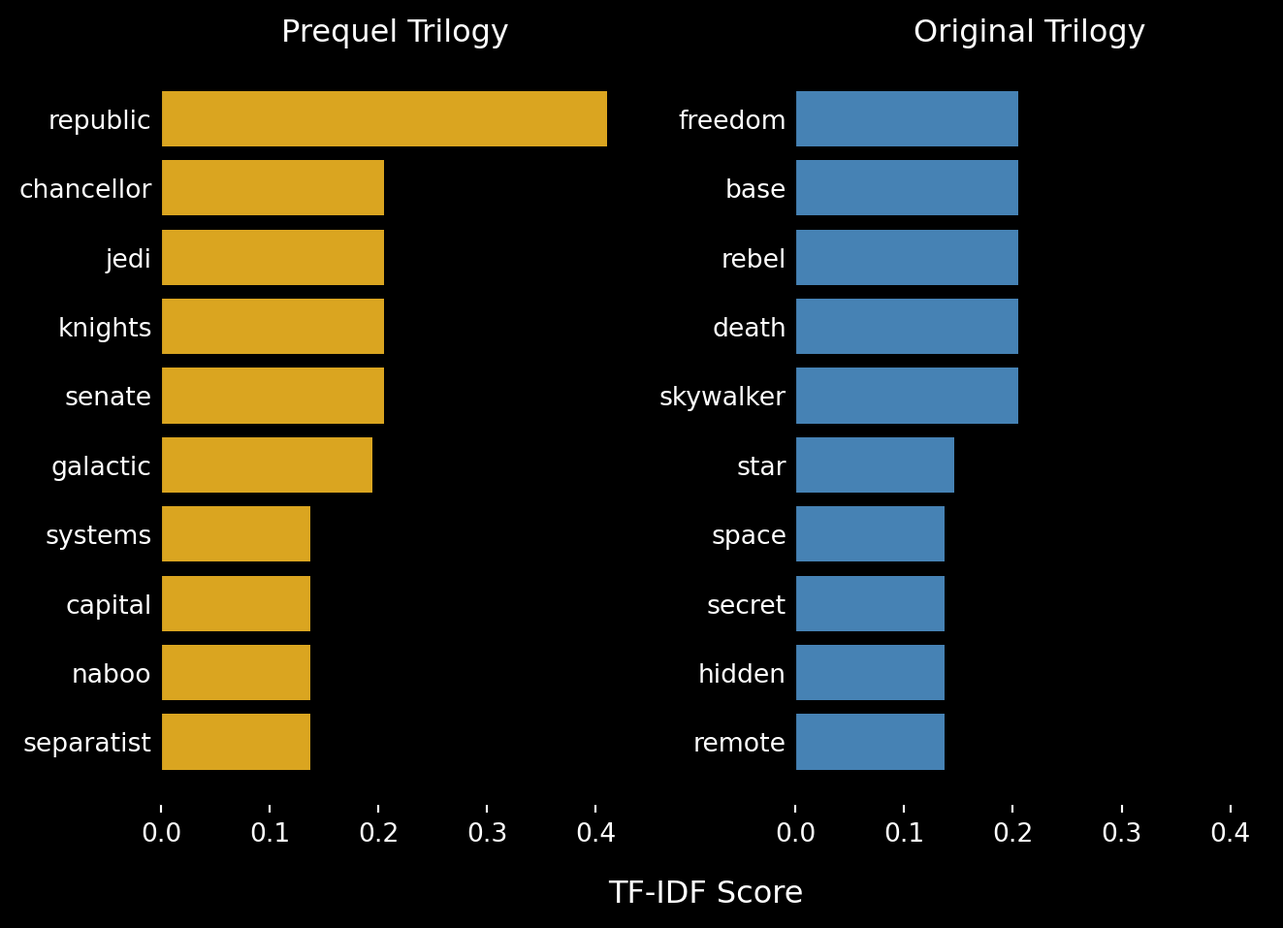
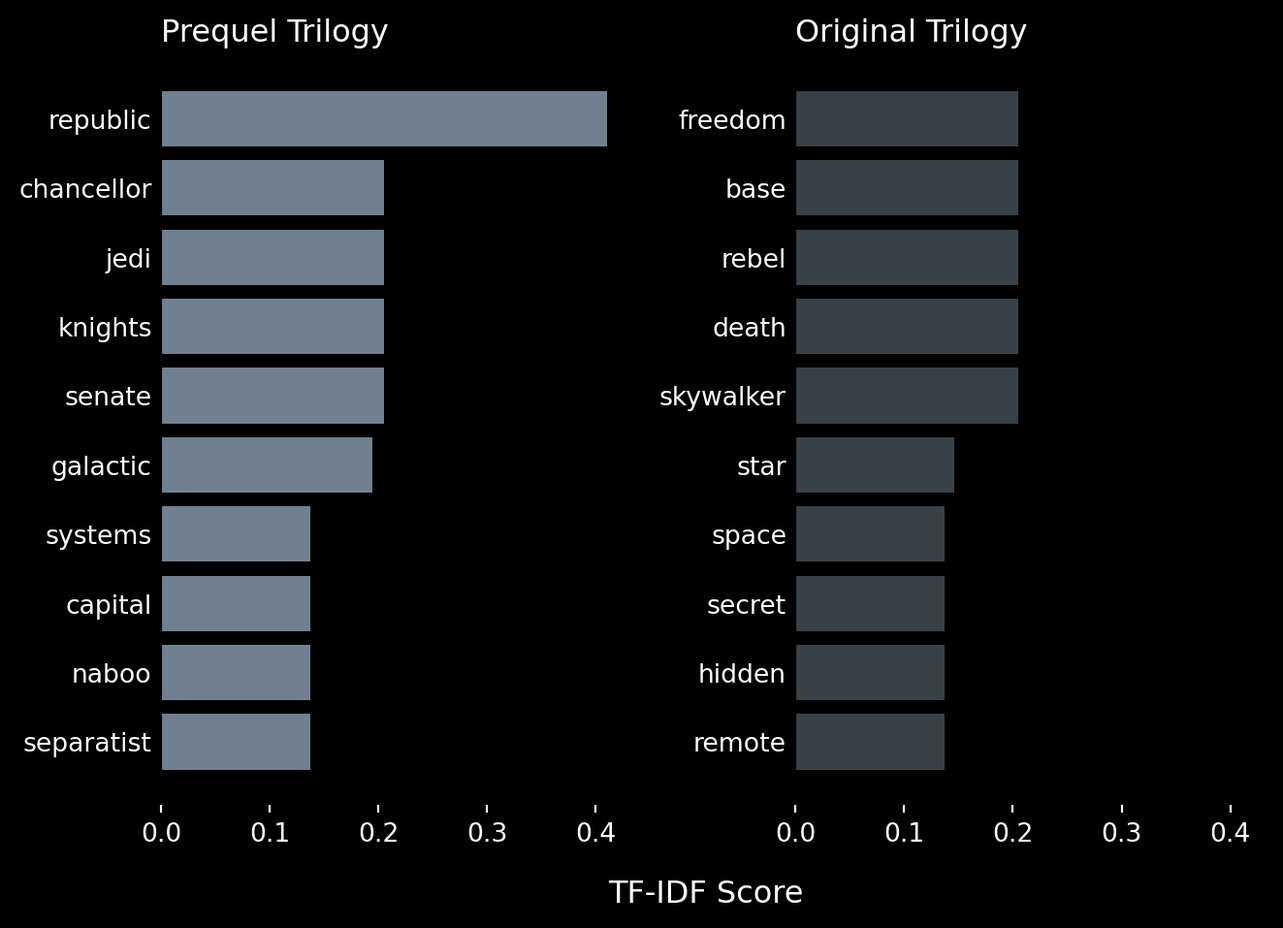
playing around with the colors for plots

diff --git a/docs/index.html b/docs/index.html
@@ -111,10 +111,11 @@ ul.task-list li input[type="checkbox"] {
 </header>
 
 <p>The main Star Wars saga consists of three trilogies: <em>the prequel trilogy</em>, <em>the original trilogy</em>, and <em>the sequel trilogy</em>. Together, these are referred to as <em>“the Skywalker Saga”</em>. In the cinematic universe, the order of the trilogies is as above, but they were released in a different order. The original trilogy was released 1977-1983, the prequel trilogy in 1999-2005, and the sequel trilogy in 2015-2019.</p>
-<p>In this analysis, we look at some of the differences between the prequel trilogy and the original trilogy.</p>
+<p>The following analysis builds on the data from <a href="https://swapi.dev/">the SW API</a> which covers the prequel trilogy and the original trilogy.</p>
 <section id="character-arcs-of-returning-characters" class="level2">
 <h2 data-anchor-id="character-arcs-of-returning-characters">Character arcs of returning characters</h2>
-<div class="cell" data-execution_count="5">
+<p>The appearance of recurring characters in the different films.</p>
+<div class="cell" data-execution_count="4">
 <div class="cell-output cell-output-display">
 <div id="storyarcs" class="quarto-figure quarto-figure-center">
 <figure class="figure">
@@ -129,7 +130,7 @@ ul.task-list li input[type="checkbox"] {
 <h2 data-anchor-id="species-representation">Species representation</h2>
 <p>The Star Wars universe has a range of different species that are represented. The majority of these species can be classified as <em>mammal</em>. This is represented in the character gallery of the movies, where the majority of named characters in each movie is a mammal. This is particularly true in the original trilogy, where the only non-mammal named characters are the druids R2-D2 and C-3PO, and Jabba Desilijic Tiure, who is more commonly known as Jabba de Hutt, who belongs to the Hutt species (classification: gastropod).</p>
 <p>Moreover, the following plot clearly shows a more numerous character gallery in the prequel trilogy, which was published later, compared with the original trilogy. The plot is interactive, so you can hover over the different data points to see a full list of named characters from that species class in that movie.</p>
-<div id="species-representation-count" class="cell" data-execution_count="8">
+<div id="species-representation-count" class="cell" data-execution_count="7">
 <div id="species-representation-count-1" class="cell-output cell-output-display">
         <script type="text/javascript">
         window.PlotlyConfig = {MathJaxConfig: 'local'};
@@ -142,9 +143,9 @@ ul.task-list li input[type="checkbox"] {
 <div id="species-representation-count-2" class="cell-output cell-output-display">
 
 <div>            <script src="https://cdnjs.cloudflare.com/ajax/libs/mathjax/2.7.5/MathJax.js?config=TeX-AMS-MML_SVG"></script><script type="text/javascript">if (window.MathJax && window.MathJax.Hub && window.MathJax.Hub.Config) {window.MathJax.Hub.Config({SVG: {font: "STIX-Web"}});}</script>                <script type="text/javascript">window.PlotlyConfig = {MathJaxConfig: 'local'};</script>
-        <script charset="utf-8" src="https://cdn.plot.ly/plotly-3.0.1.min.js"></script>                <div id="4acf7f63-1f56-48de-9eff-6d5e76ddca23" class="plotly-graph-div" style="height:525px; width:100%;"></div>            <script type="text/javascript">                window.PLOTLYENV=window.PLOTLYENV || {};                                if (document.getElementById("4acf7f63-1f56-48de-9eff-6d5e76ddca23")) {                    Plotly.newPlot(                        "4acf7f63-1f56-48de-9eff-6d5e76ddca23",                        [{"customdata":[["Jar Jar Binks\u003cbr\u003eKit Fisto\u003cbr\u003eMas Amedda"],["Jar Jar Binks\u003cbr\u003eKit Fisto\u003cbr\u003eMas Amedda"],["Kit Fisto"],[""],[""],[""]],"fillpattern":{"shape":""},"hovertemplate":"\u003cb\u003eClassification: %{fullData.name}\u003c\u002fb\u003e\u003cbr\u003e# Characters: %{y}\u003cbr\u003e%{customdata[0]}\u003cextra\u003e\u003c\u002fextra\u003e","legendgroup":"amphibian","line":{"color":"rgb(237, 229, 207)"},"marker":{"symbol":"circle"},"mode":"lines","name":"amphibian","orientation":"v","showlegend":true,"stackgroup":"1","x":["I","II","III","IV","V","VI"],"xaxis":"x","y":{"dtype":"f8","bdata":"AAAAAAAACEAAAAAAAAAIQAAAAAAAAPA\u002fAAAAAAAAAAAAAAAAAAAAAAAAAAAAAAAA"},"yaxis":"y","type":"scatter"},{"customdata":[["C-3PO\u003cbr\u003eR2-D2"],["C-3PO\u003cbr\u003eR2-D2\u003cbr\u003eR4-P17"],["C-3PO\u003cbr\u003eR2-D2\u003cbr\u003eR4-P17"],["C-3PO\u003cbr\u003eR2-D2"],["C-3PO\u003cbr\u003eR2-D2"],["C-3PO\u003cbr\u003eR2-D2"]],"fillpattern":{"shape":""},"hovertemplate":"\u003cb\u003eClassification: %{fullData.name}\u003c\u002fb\u003e\u003cbr\u003e# Characters: %{y}\u003cbr\u003e%{customdata[0]}\u003cextra\u003e\u003c\u002fextra\u003e","legendgroup":"artificial","line":{"color":"rgb(224, 194, 162)"},"marker":{"symbol":"circle"},"mode":"lines","name":"artificial","orientation":"v","showlegend":true,"stackgroup":"1","x":["I","II","III","IV","V","VI"],"xaxis":"x","y":{"dtype":"f8","bdata":"AAAAAAAAAEAAAAAAAAAIQAAAAAAAAAhAAAAAAAAAAEAAAAAAAAAAQAAAAAAAAABA"},"yaxis":"y","type":"scatter"},{"customdata":[["Jabba Desilijic Tiure"],[""],[""],["Jabba Desilijic Tiure"],[""],["Jabba Desilijic Tiure"]],"fillpattern":{"shape":""},"hovertemplate":"\u003cb\u003eClassification: %{fullData.name}\u003c\u002fb\u003e\u003cbr\u003e# Characters: %{y}\u003cbr\u003e%{customdata[0]}\u003cextra\u003e\u003c\u002fextra\u003e","legendgroup":"gastropod","line":{"color":"rgb(211, 156, 131)"},"marker":{"symbol":"circle"},"mode":"lines","name":"gastropod","orientation":"v","showlegend":true,"stackgroup":"1","x":["I","II","III","IV","V","VI"],"xaxis":"x","y":{"dtype":"f8","bdata":"AAAAAAAA8D8AAAAAAAAAAAAAAAAAAAAAAAAAAAAA8D8AAAAAAAAAAAAAAAAAAPA\u002f"},"yaxis":"y","type":"scatter"},{"customdata":[["Adi Gallia\u003cbr\u003eAnakin Skywalker\u003cbr\u003eAyla Secura\u003cbr\u003eEeth Koth\u003cbr\u003eKi-Adi-Mundi\u003cbr\u003eMace Windu\u003cbr\u003eObi-Wan Kenobi\u003cbr\u003ePadm\u00e9 Amidala\u003cbr\u003ePalpatine\u003cbr\u003eShmi Skywalker\u003cbr\u003eWatto\u003cbr\u003eYoda"],["Anakin Skywalker\u003cbr\u003eAyla Secura\u003cbr\u003eBail Prestor Organa\u003cbr\u003eBeru Whitesun lars\u003cbr\u003eBoba Fett\u003cbr\u003eDooku\u003cbr\u003eKi-Adi-Mundi\u003cbr\u003eLuminara Unduli\u003cbr\u003eMace Windu\u003cbr\u003eObi-Wan Kenobi\u003cbr\u003eOwen Lars\u003cbr\u003ePadm\u00e9 Amidala\u003cbr\u003ePalpatine\u003cbr\u003eShaak Ti\u003cbr\u003eShmi Skywalker\u003cbr\u003eWatto\u003cbr\u003eYoda"],["Adi Gallia\u003cbr\u003eAnakin Skywalker\u003cbr\u003eAyla Secura\u003cbr\u003eBail Prestor Organa\u003cbr\u003eBeru Whitesun lars\u003cbr\u003eChewbacca\u003cbr\u003eDarth Vader\u003cbr\u003eDooku\u003cbr\u003eEeth Koth\u003cbr\u003eKi-Adi-Mundi\u003cbr\u003eLeia Organa\u003cbr\u003eLuke Skywalker\u003cbr\u003eLuminara Unduli\u003cbr\u003eMace Windu\u003cbr\u003eObi-Wan Kenobi\u003cbr\u003eOwen Lars\u003cbr\u003ePadm\u00e9 Amidala\u003cbr\u003ePalpatine\u003cbr\u003eRaymus Antilles\u003cbr\u003eShaak Ti\u003cbr\u003eWilhuff Tarkin\u003cbr\u003eYoda"],["Beru Whitesun lars\u003cbr\u003eChewbacca\u003cbr\u003eDarth Vader\u003cbr\u003eHan Solo\u003cbr\u003eLeia Organa\u003cbr\u003eLuke Skywalker\u003cbr\u003eObi-Wan Kenobi\u003cbr\u003eOwen Lars\u003cbr\u003eRaymus Antilles\u003cbr\u003eWedge Antilles\u003cbr\u003eWilhuff Tarkin"],["Boba Fett\u003cbr\u003eChewbacca\u003cbr\u003eDarth Vader\u003cbr\u003eHan Solo\u003cbr\u003eLando Calrissian\u003cbr\u003eLeia Organa\u003cbr\u003eLuke Skywalker\u003cbr\u003eObi-Wan Kenobi\u003cbr\u003ePalpatine\u003cbr\u003eWedge Antilles\u003cbr\u003eYoda"],["Boba Fett\u003cbr\u003eChewbacca\u003cbr\u003eDarth Vader\u003cbr\u003eHan Solo\u003cbr\u003eLando Calrissian\u003cbr\u003eLeia Organa\u003cbr\u003eLuke Skywalker\u003cbr\u003eObi-Wan Kenobi\u003cbr\u003ePalpatine\u003cbr\u003eWedge Antilles\u003cbr\u003eYoda"]],"fillpattern":{"shape":""},"hovertemplate":"\u003cb\u003eClassification: %{fullData.name}\u003c\u002fb\u003e\u003cbr\u003e# Characters: %{y}\u003cbr\u003e%{customdata[0]}\u003cextra\u003e\u003c\u002fextra\u003e","legendgroup":"mammal","line":{"color":"rgb(193, 118, 111)"},"marker":{"symbol":"circle"},"mode":"lines","name":"mammal","orientation":"v","showlegend":true,"stackgroup":"1","x":["I","II","III","IV","V","VI"],"xaxis":"x","y":{"dtype":"f8","bdata":"AAAAAAAAKEAAAAAAAAAxQAAAAAAAADZAAAAAAAAAJkAAAAAAAAAmQAAAAAAAACZA"},"yaxis":"y","type":"scatter"},{"customdata":[["Nute Gunray\u003cbr\u003ePlo Koon\u003cbr\u003eSaesee Tiin"],["Nute Gunray\u003cbr\u003ePlo Koon"],["Nute Gunray\u003cbr\u003ePlo Koon\u003cbr\u003eSaesee Tiin"],[""],[""],[""]],"fillpattern":{"shape":""},"hovertemplate":"\u003cb\u003eClassification: %{fullData.name}\u003c\u002fb\u003e\u003cbr\u003e# Characters: %{y}\u003cbr\u003e%{customdata[0]}\u003cextra\u003e\u003c\u002fextra\u003e","legendgroup":"unknown","line":{"color":"rgb(166, 84, 97)"},"marker":{"symbol":"circle"},"mode":"lines","name":"unknown","orientation":"v","showlegend":true,"stackgroup":"1","x":["I","II","III","IV","V","VI"],"xaxis":"x","y":{"dtype":"f8","bdata":"AAAAAAAACEAAAAAAAAAAQAAAAAAAAAhAAAAAAAAAAAAAAAAAAAAAAAAAAAAAAAAA"},"yaxis":"y","type":"scatter"},{"customdata":[[""],["Poggle the Lesser"],["Poggle the Lesser"],[""],[""],[""]],"fillpattern":{"shape":""},"hovertemplate":"\u003cb\u003eClassification: %{fullData.name}\u003c\u002fb\u003e\u003cbr\u003e# Characters: %{y}\u003cbr\u003e%{customdata[0]}\u003cextra\u003e\u003c\u002fextra\u003e","legendgroup":"insectoid","line":{"color":"rgb(129, 55, 83)"},"marker":{"symbol":"circle"},"mode":"lines","name":"insectoid","orientation":"v","showlegend":true,"stackgroup":"1","x":["I","II","III","IV","V","VI"],"xaxis":"x","y":{"dtype":"f8","bdata":"AAAAAAAAAAAAAAAAAADwPwAAAAAAAPA\u002fAAAAAAAAAAAAAAAAAAAAAAAAAAAAAAAA"},"yaxis":"y","type":"scatter"}],                        {"template":{"data":{"histogram2dcontour":[{"type":"histogram2dcontour","colorbar":{"outlinewidth":0,"ticks":""},"colorscale":[[0.0,"#0d0887"],[0.1111111111111111,"#46039f"],[0.2222222222222222,"#7201a8"],[0.3333333333333333,"#9c179e"],[0.4444444444444444,"#bd3786"],[0.5555555555555556,"#d8576b"],[0.6666666666666666,"#ed7953"],[0.7777777777777778,"#fb9f3a"],[0.8888888888888888,"#fdca26"],[1.0,"#f0f921"]]}],"choropleth":[{"type":"choropleth","colorbar":{"outlinewidth":0,"ticks":""}}],"histogram2d":[{"type":"histogram2d","colorbar":{"outlinewidth":0,"ticks":""},"colorscale":[[0.0,"#0d0887"],[0.1111111111111111,"#46039f"],[0.2222222222222222,"#7201a8"],[0.3333333333333333,"#9c179e"],[0.4444444444444444,"#bd3786"],[0.5555555555555556,"#d8576b"],[0.6666666666666666,"#ed7953"],[0.7777777777777778,"#fb9f3a"],[0.8888888888888888,"#fdca26"],[1.0,"#f0f921"]]}],"heatmap":[{"type":"heatmap","colorbar":{"outlinewidth":0,"ticks":""},"colorscale":[[0.0,"#0d0887"],[0.1111111111111111,"#46039f"],[0.2222222222222222,"#7201a8"],[0.3333333333333333,"#9c179e"],[0.4444444444444444,"#bd3786"],[0.5555555555555556,"#d8576b"],[0.6666666666666666,"#ed7953"],[0.7777777777777778,"#fb9f3a"],[0.8888888888888888,"#fdca26"],[1.0,"#f0f921"]]}],"contourcarpet":[{"type":"contourcarpet","colorbar":{"outlinewidth":0,"ticks":""}}],"contour":[{"type":"contour","colorbar":{"outlinewidth":0,"ticks":""},"colorscale":[[0.0,"#0d0887"],[0.1111111111111111,"#46039f"],[0.2222222222222222,"#7201a8"],[0.3333333333333333,"#9c179e"],[0.4444444444444444,"#bd3786"],[0.5555555555555556,"#d8576b"],[0.6666666666666666,"#ed7953"],[0.7777777777777778,"#fb9f3a"],[0.8888888888888888,"#fdca26"],[1.0,"#f0f921"]]}],"surface":[{"type":"surface","colorbar":{"outlinewidth":0,"ticks":""},"colorscale":[[0.0,"#0d0887"],[0.1111111111111111,"#46039f"],[0.2222222222222222,"#7201a8"],[0.3333333333333333,"#9c179e"],[0.4444444444444444,"#bd3786"],[0.5555555555555556,"#d8576b"],[0.6666666666666666,"#ed7953"],[0.7777777777777778,"#fb9f3a"],[0.8888888888888888,"#fdca26"],[1.0,"#f0f921"]]}],"mesh3d":[{"type":"mesh3d","colorbar":{"outlinewidth":0,"ticks":""}}],"scatter":[{"fillpattern":{"fillmode":"overlay","size":10,"solidity":0.2},"type":"scatter"}],"parcoords":[{"type":"parcoords","line":{"colorbar":{"outlinewidth":0,"ticks":""}}}],"scatterpolargl":[{"type":"scatterpolargl","marker":{"colorbar":{"outlinewidth":0,"ticks":""}}}],"bar":[{"error_x":{"color":"#2a3f5f"},"error_y":{"color":"#2a3f5f"},"marker":{"line":{"color":"#E5ECF6","width":0.5},"pattern":{"fillmode":"overlay","size":10,"solidity":0.2}},"type":"bar"}],"scattergeo":[{"type":"scattergeo","marker":{"colorbar":{"outlinewidth":0,"ticks":""}}}],"scatterpolar":[{"type":"scatterpolar","marker":{"colorbar":{"outlinewidth":0,"ticks":""}}}],"histogram":[{"marker":{"pattern":{"fillmode":"overlay","size":10,"solidity":0.2}},"type":"histogram"}],"scattergl":[{"type":"scattergl","marker":{"colorbar":{"outlinewidth":0,"ticks":""}}}],"scatter3d":[{"type":"scatter3d","line":{"colorbar":{"outlinewidth":0,"ticks":""}},"marker":{"colorbar":{"outlinewidth":0,"ticks":""}}}],"scattermap":[{"type":"scattermap","marker":{"colorbar":{"outlinewidth":0,"ticks":""}}}],"scattermapbox":[{"type":"scattermapbox","marker":{"colorbar":{"outlinewidth":0,"ticks":""}}}],"scatterternary":[{"type":"scatterternary","marker":{"colorbar":{"outlinewidth":0,"ticks":""}}}],"scattercarpet":[{"type":"scattercarpet","marker":{"colorbar":{"outlinewidth":0,"ticks":""}}}],"carpet":[{"aaxis":{"endlinecolor":"#2a3f5f","gridcolor":"white","linecolor":"white","minorgridcolor":"white","startlinecolor":"#2a3f5f"},"baxis":{"endlinecolor":"#2a3f5f","gridcolor":"white","linecolor":"white","minorgridcolor":"white","startlinecolor":"#2a3f5f"},"type":"carpet"}],"table":[{"cells":{"fill":{"color":"#EBF0F8"},"line":{"color":"white"}},"header":{"fill":{"color":"#C8D4E3"},"line":{"color":"white"}},"type":"table"}],"barpolar":[{"marker":{"line":{"color":"#E5ECF6","width":0.5},"pattern":{"fillmode":"overlay","size":10,"solidity":0.2}},"type":"barpolar"}],"pie":[{"automargin":true,"type":"pie"}]},"layout":{"autotypenumbers":"strict","colorway":["#636efa","#EF553B","#00cc96","#ab63fa","#FFA15A","#19d3f3","#FF6692","#B6E880","#FF97FF","#FECB52"],"font":{"color":"#2a3f5f"},"hovermode":"closest","hoverlabel":{"align":"left"},"paper_bgcolor":"white","plot_bgcolor":"#E5ECF6","polar":{"bgcolor":"#E5ECF6","angularaxis":{"gridcolor":"white","linecolor":"white","ticks":""},"radialaxis":{"gridcolor":"white","linecolor":"white","ticks":""}},"ternary":{"bgcolor":"#E5ECF6","aaxis":{"gridcolor":"white","linecolor":"white","ticks":""},"baxis":{"gridcolor":"white","linecolor":"white","ticks":""},"caxis":{"gridcolor":"white","linecolor":"white","ticks":""}},"coloraxis":{"colorbar":{"outlinewidth":0,"ticks":""}},"colorscale":{"sequential":[[0.0,"#0d0887"],[0.1111111111111111,"#46039f"],[0.2222222222222222,"#7201a8"],[0.3333333333333333,"#9c179e"],[0.4444444444444444,"#bd3786"],[0.5555555555555556,"#d8576b"],[0.6666666666666666,"#ed7953"],[0.7777777777777778,"#fb9f3a"],[0.8888888888888888,"#fdca26"],[1.0,"#f0f921"]],"sequentialminus":[[0.0,"#0d0887"],[0.1111111111111111,"#46039f"],[0.2222222222222222,"#7201a8"],[0.3333333333333333,"#9c179e"],[0.4444444444444444,"#bd3786"],[0.5555555555555556,"#d8576b"],[0.6666666666666666,"#ed7953"],[0.7777777777777778,"#fb9f3a"],[0.8888888888888888,"#fdca26"],[1.0,"#f0f921"]],"diverging":[[0,"#8e0152"],[0.1,"#c51b7d"],[0.2,"#de77ae"],[0.3,"#f1b6da"],[0.4,"#fde0ef"],[0.5,"#f7f7f7"],[0.6,"#e6f5d0"],[0.7,"#b8e186"],[0.8,"#7fbc41"],[0.9,"#4d9221"],[1,"#276419"]]},"xaxis":{"gridcolor":"white","linecolor":"white","ticks":"","title":{"standoff":15},"zerolinecolor":"white","automargin":true,"zerolinewidth":2},"yaxis":{"gridcolor":"white","linecolor":"white","ticks":"","title":{"standoff":15},"zerolinecolor":"white","automargin":true,"zerolinewidth":2},"scene":{"xaxis":{"backgroundcolor":"#E5ECF6","gridcolor":"white","linecolor":"white","showbackground":true,"ticks":"","zerolinecolor":"white","gridwidth":2},"yaxis":{"backgroundcolor":"#E5ECF6","gridcolor":"white","linecolor":"white","showbackground":true,"ticks":"","zerolinecolor":"white","gridwidth":2},"zaxis":{"backgroundcolor":"#E5ECF6","gridcolor":"white","linecolor":"white","showbackground":true,"ticks":"","zerolinecolor":"white","gridwidth":2}},"shapedefaults":{"line":{"color":"#2a3f5f"}},"annotationdefaults":{"arrowcolor":"#2a3f5f","arrowhead":0,"arrowwidth":1},"geo":{"bgcolor":"white","landcolor":"#E5ECF6","subunitcolor":"white","showland":true,"showlakes":true,"lakecolor":"white"},"title":{"x":0.05},"mapbox":{"style":"light"}}},"xaxis":{"anchor":"y","domain":[0.0,1.0],"title":{"text":"EPISODE"},"showgrid":false,"zeroline":false},"yaxis":{"anchor":"x","domain":[0.0,1.0],"title":{"text":"# Unique Characters"},"showgrid":false,"zeroline":false},"legend":{"title":{"text":"Classification"},"tracegroupgap":0},"margin":{"t":60},"shapes":[{"fillcolor":"white","line":{"width":0},"opacity":0.2,"type":"rect","x0":0,"x1":2.5,"xref":"x","y0":0,"y1":1,"yref":"y domain"}],"annotations":[{"font":{"color":"white","size":16},"showarrow":false,"text":"Prequel Trilogy","x":0.6,"y":30},{"font":{"color":"white","size":16},"showarrow":false,"text":"Original Trilogy","x":4.4,"y":30}],"font":{"color":"white"},"paper_bgcolor":"black","plot_bgcolor":"black"},                        {"responsive": true}                    ).then(function(){
+        <script charset="utf-8" src="https://cdn.plot.ly/plotly-3.0.1.min.js"></script>                <div id="2be65f09-440c-45a9-a1fb-83e76737846d" class="plotly-graph-div" style="height:525px; width:100%;"></div>            <script type="text/javascript">                window.PLOTLYENV=window.PLOTLYENV || {};                                if (document.getElementById("2be65f09-440c-45a9-a1fb-83e76737846d")) {                    Plotly.newPlot(                        "2be65f09-440c-45a9-a1fb-83e76737846d",                        [{"customdata":[["Jar Jar Binks\u003cbr\u003eKit Fisto\u003cbr\u003eMas Amedda"],["Jar Jar Binks\u003cbr\u003eKit Fisto\u003cbr\u003eMas Amedda"],["Kit Fisto"],[""],[""],[""]],"fillpattern":{"shape":""},"hovertemplate":"\u003cb\u003eClassification: %{fullData.name}\u003c\u002fb\u003e\u003cbr\u003e# Characters: %{y}\u003cbr\u003e%{customdata[0]}\u003cextra\u003e\u003c\u002fextra\u003e","legendgroup":"amphibian","line":{"color":"rgb(237, 229, 207)"},"marker":{"symbol":"circle"},"mode":"lines","name":"amphibian","orientation":"v","showlegend":true,"stackgroup":"1","x":["I","II","III","IV","V","VI"],"xaxis":"x","y":{"dtype":"f8","bdata":"AAAAAAAACEAAAAAAAAAIQAAAAAAAAPA\u002fAAAAAAAAAAAAAAAAAAAAAAAAAAAAAAAA"},"yaxis":"y","type":"scatter"},{"customdata":[["C-3PO\u003cbr\u003eR2-D2"],["C-3PO\u003cbr\u003eR2-D2\u003cbr\u003eR4-P17"],["C-3PO\u003cbr\u003eR2-D2\u003cbr\u003eR4-P17"],["C-3PO\u003cbr\u003eR2-D2"],["C-3PO\u003cbr\u003eR2-D2"],["C-3PO\u003cbr\u003eR2-D2"]],"fillpattern":{"shape":""},"hovertemplate":"\u003cb\u003eClassification: %{fullData.name}\u003c\u002fb\u003e\u003cbr\u003e# Characters: %{y}\u003cbr\u003e%{customdata[0]}\u003cextra\u003e\u003c\u002fextra\u003e","legendgroup":"artificial","line":{"color":"rgb(224, 194, 162)"},"marker":{"symbol":"circle"},"mode":"lines","name":"artificial","orientation":"v","showlegend":true,"stackgroup":"1","x":["I","II","III","IV","V","VI"],"xaxis":"x","y":{"dtype":"f8","bdata":"AAAAAAAAAEAAAAAAAAAIQAAAAAAAAAhAAAAAAAAAAEAAAAAAAAAAQAAAAAAAAABA"},"yaxis":"y","type":"scatter"},{"customdata":[["Jabba Desilijic Tiure"],[""],[""],["Jabba Desilijic Tiure"],[""],["Jabba Desilijic Tiure"]],"fillpattern":{"shape":""},"hovertemplate":"\u003cb\u003eClassification: %{fullData.name}\u003c\u002fb\u003e\u003cbr\u003e# Characters: %{y}\u003cbr\u003e%{customdata[0]}\u003cextra\u003e\u003c\u002fextra\u003e","legendgroup":"gastropod","line":{"color":"rgb(211, 156, 131)"},"marker":{"symbol":"circle"},"mode":"lines","name":"gastropod","orientation":"v","showlegend":true,"stackgroup":"1","x":["I","II","III","IV","V","VI"],"xaxis":"x","y":{"dtype":"f8","bdata":"AAAAAAAA8D8AAAAAAAAAAAAAAAAAAAAAAAAAAAAA8D8AAAAAAAAAAAAAAAAAAPA\u002f"},"yaxis":"y","type":"scatter"},{"customdata":[["Adi Gallia\u003cbr\u003eAnakin Skywalker\u003cbr\u003eAyla Secura\u003cbr\u003eEeth Koth\u003cbr\u003eKi-Adi-Mundi\u003cbr\u003eMace Windu\u003cbr\u003eObi-Wan Kenobi\u003cbr\u003ePadm\u00e9 Amidala\u003cbr\u003ePalpatine\u003cbr\u003eShmi Skywalker\u003cbr\u003eWatto\u003cbr\u003eYoda"],["Anakin Skywalker\u003cbr\u003eAyla Secura\u003cbr\u003eBail Prestor Organa\u003cbr\u003eBeru Whitesun lars\u003cbr\u003eBoba Fett\u003cbr\u003eDooku\u003cbr\u003eKi-Adi-Mundi\u003cbr\u003eLuminara Unduli\u003cbr\u003eMace Windu\u003cbr\u003eObi-Wan Kenobi\u003cbr\u003eOwen Lars\u003cbr\u003ePadm\u00e9 Amidala\u003cbr\u003ePalpatine\u003cbr\u003eShaak Ti\u003cbr\u003eShmi Skywalker\u003cbr\u003eWatto\u003cbr\u003eYoda"],["Adi Gallia\u003cbr\u003eAnakin Skywalker\u003cbr\u003eAyla Secura\u003cbr\u003eBail Prestor Organa\u003cbr\u003eBeru Whitesun lars\u003cbr\u003eChewbacca\u003cbr\u003eDarth Vader\u003cbr\u003eDooku\u003cbr\u003eEeth Koth\u003cbr\u003eKi-Adi-Mundi\u003cbr\u003eLeia Organa\u003cbr\u003eLuke Skywalker\u003cbr\u003eLuminara Unduli\u003cbr\u003eMace Windu\u003cbr\u003eObi-Wan Kenobi\u003cbr\u003eOwen Lars\u003cbr\u003ePadm\u00e9 Amidala\u003cbr\u003ePalpatine\u003cbr\u003eRaymus Antilles\u003cbr\u003eShaak Ti\u003cbr\u003eWilhuff Tarkin\u003cbr\u003eYoda"],["Beru Whitesun lars\u003cbr\u003eChewbacca\u003cbr\u003eDarth Vader\u003cbr\u003eHan Solo\u003cbr\u003eLeia Organa\u003cbr\u003eLuke Skywalker\u003cbr\u003eObi-Wan Kenobi\u003cbr\u003eOwen Lars\u003cbr\u003eRaymus Antilles\u003cbr\u003eWedge Antilles\u003cbr\u003eWilhuff Tarkin"],["Boba Fett\u003cbr\u003eChewbacca\u003cbr\u003eDarth Vader\u003cbr\u003eHan Solo\u003cbr\u003eLando Calrissian\u003cbr\u003eLeia Organa\u003cbr\u003eLuke Skywalker\u003cbr\u003eObi-Wan Kenobi\u003cbr\u003ePalpatine\u003cbr\u003eWedge Antilles\u003cbr\u003eYoda"],["Boba Fett\u003cbr\u003eChewbacca\u003cbr\u003eDarth Vader\u003cbr\u003eHan Solo\u003cbr\u003eLando Calrissian\u003cbr\u003eLeia Organa\u003cbr\u003eLuke Skywalker\u003cbr\u003eObi-Wan Kenobi\u003cbr\u003ePalpatine\u003cbr\u003eWedge Antilles\u003cbr\u003eYoda"]],"fillpattern":{"shape":""},"hovertemplate":"\u003cb\u003eClassification: %{fullData.name}\u003c\u002fb\u003e\u003cbr\u003e# Characters: %{y}\u003cbr\u003e%{customdata[0]}\u003cextra\u003e\u003c\u002fextra\u003e","legendgroup":"mammal","line":{"color":"rgb(193, 118, 111)"},"marker":{"symbol":"circle"},"mode":"lines","name":"mammal","orientation":"v","showlegend":true,"stackgroup":"1","x":["I","II","III","IV","V","VI"],"xaxis":"x","y":{"dtype":"f8","bdata":"AAAAAAAAKEAAAAAAAAAxQAAAAAAAADZAAAAAAAAAJkAAAAAAAAAmQAAAAAAAACZA"},"yaxis":"y","type":"scatter"},{"customdata":[["Nute Gunray\u003cbr\u003ePlo Koon\u003cbr\u003eSaesee Tiin"],["Nute Gunray\u003cbr\u003ePlo Koon"],["Nute Gunray\u003cbr\u003ePlo Koon\u003cbr\u003eSaesee Tiin"],[""],[""],[""]],"fillpattern":{"shape":""},"hovertemplate":"\u003cb\u003eClassification: %{fullData.name}\u003c\u002fb\u003e\u003cbr\u003e# Characters: %{y}\u003cbr\u003e%{customdata[0]}\u003cextra\u003e\u003c\u002fextra\u003e","legendgroup":"unknown","line":{"color":"rgb(166, 84, 97)"},"marker":{"symbol":"circle"},"mode":"lines","name":"unknown","orientation":"v","showlegend":true,"stackgroup":"1","x":["I","II","III","IV","V","VI"],"xaxis":"x","y":{"dtype":"f8","bdata":"AAAAAAAACEAAAAAAAAAAQAAAAAAAAAhAAAAAAAAAAAAAAAAAAAAAAAAAAAAAAAAA"},"yaxis":"y","type":"scatter"},{"customdata":[[""],["Poggle the Lesser"],["Poggle the Lesser"],[""],[""],[""]],"fillpattern":{"shape":""},"hovertemplate":"\u003cb\u003eClassification: %{fullData.name}\u003c\u002fb\u003e\u003cbr\u003e# Characters: %{y}\u003cbr\u003e%{customdata[0]}\u003cextra\u003e\u003c\u002fextra\u003e","legendgroup":"insectoid","line":{"color":"rgb(129, 55, 83)"},"marker":{"symbol":"circle"},"mode":"lines","name":"insectoid","orientation":"v","showlegend":true,"stackgroup":"1","x":["I","II","III","IV","V","VI"],"xaxis":"x","y":{"dtype":"f8","bdata":"AAAAAAAAAAAAAAAAAADwPwAAAAAAAPA\u002fAAAAAAAAAAAAAAAAAAAAAAAAAAAAAAAA"},"yaxis":"y","type":"scatter"}],                        {"template":{"data":{"histogram2dcontour":[{"type":"histogram2dcontour","colorbar":{"outlinewidth":0,"ticks":""},"colorscale":[[0.0,"#0d0887"],[0.1111111111111111,"#46039f"],[0.2222222222222222,"#7201a8"],[0.3333333333333333,"#9c179e"],[0.4444444444444444,"#bd3786"],[0.5555555555555556,"#d8576b"],[0.6666666666666666,"#ed7953"],[0.7777777777777778,"#fb9f3a"],[0.8888888888888888,"#fdca26"],[1.0,"#f0f921"]]}],"choropleth":[{"type":"choropleth","colorbar":{"outlinewidth":0,"ticks":""}}],"histogram2d":[{"type":"histogram2d","colorbar":{"outlinewidth":0,"ticks":""},"colorscale":[[0.0,"#0d0887"],[0.1111111111111111,"#46039f"],[0.2222222222222222,"#7201a8"],[0.3333333333333333,"#9c179e"],[0.4444444444444444,"#bd3786"],[0.5555555555555556,"#d8576b"],[0.6666666666666666,"#ed7953"],[0.7777777777777778,"#fb9f3a"],[0.8888888888888888,"#fdca26"],[1.0,"#f0f921"]]}],"heatmap":[{"type":"heatmap","colorbar":{"outlinewidth":0,"ticks":""},"colorscale":[[0.0,"#0d0887"],[0.1111111111111111,"#46039f"],[0.2222222222222222,"#7201a8"],[0.3333333333333333,"#9c179e"],[0.4444444444444444,"#bd3786"],[0.5555555555555556,"#d8576b"],[0.6666666666666666,"#ed7953"],[0.7777777777777778,"#fb9f3a"],[0.8888888888888888,"#fdca26"],[1.0,"#f0f921"]]}],"contourcarpet":[{"type":"contourcarpet","colorbar":{"outlinewidth":0,"ticks":""}}],"contour":[{"type":"contour","colorbar":{"outlinewidth":0,"ticks":""},"colorscale":[[0.0,"#0d0887"],[0.1111111111111111,"#46039f"],[0.2222222222222222,"#7201a8"],[0.3333333333333333,"#9c179e"],[0.4444444444444444,"#bd3786"],[0.5555555555555556,"#d8576b"],[0.6666666666666666,"#ed7953"],[0.7777777777777778,"#fb9f3a"],[0.8888888888888888,"#fdca26"],[1.0,"#f0f921"]]}],"surface":[{"type":"surface","colorbar":{"outlinewidth":0,"ticks":""},"colorscale":[[0.0,"#0d0887"],[0.1111111111111111,"#46039f"],[0.2222222222222222,"#7201a8"],[0.3333333333333333,"#9c179e"],[0.4444444444444444,"#bd3786"],[0.5555555555555556,"#d8576b"],[0.6666666666666666,"#ed7953"],[0.7777777777777778,"#fb9f3a"],[0.8888888888888888,"#fdca26"],[1.0,"#f0f921"]]}],"mesh3d":[{"type":"mesh3d","colorbar":{"outlinewidth":0,"ticks":""}}],"scatter":[{"fillpattern":{"fillmode":"overlay","size":10,"solidity":0.2},"type":"scatter"}],"parcoords":[{"type":"parcoords","line":{"colorbar":{"outlinewidth":0,"ticks":""}}}],"scatterpolargl":[{"type":"scatterpolargl","marker":{"colorbar":{"outlinewidth":0,"ticks":""}}}],"bar":[{"error_x":{"color":"#2a3f5f"},"error_y":{"color":"#2a3f5f"},"marker":{"line":{"color":"#E5ECF6","width":0.5},"pattern":{"fillmode":"overlay","size":10,"solidity":0.2}},"type":"bar"}],"scattergeo":[{"type":"scattergeo","marker":{"colorbar":{"outlinewidth":0,"ticks":""}}}],"scatterpolar":[{"type":"scatterpolar","marker":{"colorbar":{"outlinewidth":0,"ticks":""}}}],"histogram":[{"marker":{"pattern":{"fillmode":"overlay","size":10,"solidity":0.2}},"type":"histogram"}],"scattergl":[{"type":"scattergl","marker":{"colorbar":{"outlinewidth":0,"ticks":""}}}],"scatter3d":[{"type":"scatter3d","line":{"colorbar":{"outlinewidth":0,"ticks":""}},"marker":{"colorbar":{"outlinewidth":0,"ticks":""}}}],"scattermap":[{"type":"scattermap","marker":{"colorbar":{"outlinewidth":0,"ticks":""}}}],"scattermapbox":[{"type":"scattermapbox","marker":{"colorbar":{"outlinewidth":0,"ticks":""}}}],"scatterternary":[{"type":"scatterternary","marker":{"colorbar":{"outlinewidth":0,"ticks":""}}}],"scattercarpet":[{"type":"scattercarpet","marker":{"colorbar":{"outlinewidth":0,"ticks":""}}}],"carpet":[{"aaxis":{"endlinecolor":"#2a3f5f","gridcolor":"white","linecolor":"white","minorgridcolor":"white","startlinecolor":"#2a3f5f"},"baxis":{"endlinecolor":"#2a3f5f","gridcolor":"white","linecolor":"white","minorgridcolor":"white","startlinecolor":"#2a3f5f"},"type":"carpet"}],"table":[{"cells":{"fill":{"color":"#EBF0F8"},"line":{"color":"white"}},"header":{"fill":{"color":"#C8D4E3"},"line":{"color":"white"}},"type":"table"}],"barpolar":[{"marker":{"line":{"color":"#E5ECF6","width":0.5},"pattern":{"fillmode":"overlay","size":10,"solidity":0.2}},"type":"barpolar"}],"pie":[{"automargin":true,"type":"pie"}]},"layout":{"autotypenumbers":"strict","colorway":["#636efa","#EF553B","#00cc96","#ab63fa","#FFA15A","#19d3f3","#FF6692","#B6E880","#FF97FF","#FECB52"],"font":{"color":"#2a3f5f"},"hovermode":"closest","hoverlabel":{"align":"left"},"paper_bgcolor":"white","plot_bgcolor":"#E5ECF6","polar":{"bgcolor":"#E5ECF6","angularaxis":{"gridcolor":"white","linecolor":"white","ticks":""},"radialaxis":{"gridcolor":"white","linecolor":"white","ticks":""}},"ternary":{"bgcolor":"#E5ECF6","aaxis":{"gridcolor":"white","linecolor":"white","ticks":""},"baxis":{"gridcolor":"white","linecolor":"white","ticks":""},"caxis":{"gridcolor":"white","linecolor":"white","ticks":""}},"coloraxis":{"colorbar":{"outlinewidth":0,"ticks":""}},"colorscale":{"sequential":[[0.0,"#0d0887"],[0.1111111111111111,"#46039f"],[0.2222222222222222,"#7201a8"],[0.3333333333333333,"#9c179e"],[0.4444444444444444,"#bd3786"],[0.5555555555555556,"#d8576b"],[0.6666666666666666,"#ed7953"],[0.7777777777777778,"#fb9f3a"],[0.8888888888888888,"#fdca26"],[1.0,"#f0f921"]],"sequentialminus":[[0.0,"#0d0887"],[0.1111111111111111,"#46039f"],[0.2222222222222222,"#7201a8"],[0.3333333333333333,"#9c179e"],[0.4444444444444444,"#bd3786"],[0.5555555555555556,"#d8576b"],[0.6666666666666666,"#ed7953"],[0.7777777777777778,"#fb9f3a"],[0.8888888888888888,"#fdca26"],[1.0,"#f0f921"]],"diverging":[[0,"#8e0152"],[0.1,"#c51b7d"],[0.2,"#de77ae"],[0.3,"#f1b6da"],[0.4,"#fde0ef"],[0.5,"#f7f7f7"],[0.6,"#e6f5d0"],[0.7,"#b8e186"],[0.8,"#7fbc41"],[0.9,"#4d9221"],[1,"#276419"]]},"xaxis":{"gridcolor":"white","linecolor":"white","ticks":"","title":{"standoff":15},"zerolinecolor":"white","automargin":true,"zerolinewidth":2},"yaxis":{"gridcolor":"white","linecolor":"white","ticks":"","title":{"standoff":15},"zerolinecolor":"white","automargin":true,"zerolinewidth":2},"scene":{"xaxis":{"backgroundcolor":"#E5ECF6","gridcolor":"white","linecolor":"white","showbackground":true,"ticks":"","zerolinecolor":"white","gridwidth":2},"yaxis":{"backgroundcolor":"#E5ECF6","gridcolor":"white","linecolor":"white","showbackground":true,"ticks":"","zerolinecolor":"white","gridwidth":2},"zaxis":{"backgroundcolor":"#E5ECF6","gridcolor":"white","linecolor":"white","showbackground":true,"ticks":"","zerolinecolor":"white","gridwidth":2}},"shapedefaults":{"line":{"color":"#2a3f5f"}},"annotationdefaults":{"arrowcolor":"#2a3f5f","arrowhead":0,"arrowwidth":1},"geo":{"bgcolor":"white","landcolor":"#E5ECF6","subunitcolor":"white","showland":true,"showlakes":true,"lakecolor":"white"},"title":{"x":0.05},"mapbox":{"style":"light"}}},"xaxis":{"anchor":"y","domain":[0.0,1.0],"title":{"text":"EPISODE"},"showgrid":false,"zeroline":false},"yaxis":{"anchor":"x","domain":[0.0,1.0],"title":{"text":"# Unique Characters"},"showgrid":false,"zeroline":false},"legend":{"title":{"text":"Classification"},"tracegroupgap":0},"margin":{"t":60},"shapes":[{"fillcolor":"white","line":{"width":0},"opacity":0.2,"type":"rect","x0":0,"x1":2.5,"xref":"x","y0":0,"y1":1,"yref":"y domain"}],"annotations":[{"font":{"color":"white","size":16},"showarrow":false,"text":"Prequel Trilogy","x":0.6,"y":30},{"font":{"color":"white","size":16},"showarrow":false,"text":"Original Trilogy","x":4.4,"y":30}],"font":{"color":"white"},"paper_bgcolor":"black","plot_bgcolor":"black"},                        {"responsive": true}                    ).then(function(){
                             
-var gd = document.getElementById('4acf7f63-1f56-48de-9eff-6d5e76ddca23');
+var gd = document.getElementById('2be65f09-440c-45a9-a1fb-83e76737846d');
 var x = new MutationObserver(function (mutations, observer) {{
         var display = window.getComputedStyle(gd).display;
         if (!display || display === 'none') {{
@@ -173,7 +174,7 @@ if (outputEl) {{
 <section id="nlp-analysis-of-the-opening-crawl" class="level2">
 <h2 data-anchor-id="nlp-analysis-of-the-opening-crawl">NLP analysis of the opening crawl</h2>
 <p>The Star Wars opening crawl is a signature device of the opening sequences of every numbered film of the Star Wars series, an American epic space opera franchise created by George Lucas. Within a black sky background featuring a smattering of stars, the crawl is preceded both by the opening static blue text, “A long time ago in a galaxy far, far away….” and by the Star Wars logo which recedes toward a central point on the screen before disappearing. The crawl text, which describes the backstory and context of the film, then recedes toward a higher point in relation to the screen and with an apparent effect of disappearing in the distance. <a href="#fn1" class="footnote-ref" id="fnref1" role="doc-noteref"><sup>1</sup></a></p>
-<div class="cell" data-execution_count="10">
+<div class="cell" data-execution_count="9">
 <div class="cell-output cell-output-display">
 <div id="wordcloud" class="quarto-figure quarto-figure-center">
 <figure class="figure">
@@ -184,7 +185,7 @@ if (outputEl) {{
 </div>
 </div>
 <p>Digging more into the words used in the opening crawls shows differences between the prequel trilogy and the original trilogy. The most distinctive words in the prequel trilogy opening crawls reflect the key themes in the trilogy: the corruption of the Galactic Republic and its last chancellor, Sheev Palpatine. The most distinctive words in the original trilogy reflect the themes central in those movies: the quest for freedom by the Rebel Alliance and the central role of Luke Skywalker.</p>
-<div class="cell" data-execution_count="12">
+<div class="cell" data-execution_count="11">
 <div class="cell-output cell-output-display">
 <div id="wordimportance" class="quarto-figure quarto-figure-center">
 <figure class="figure">
